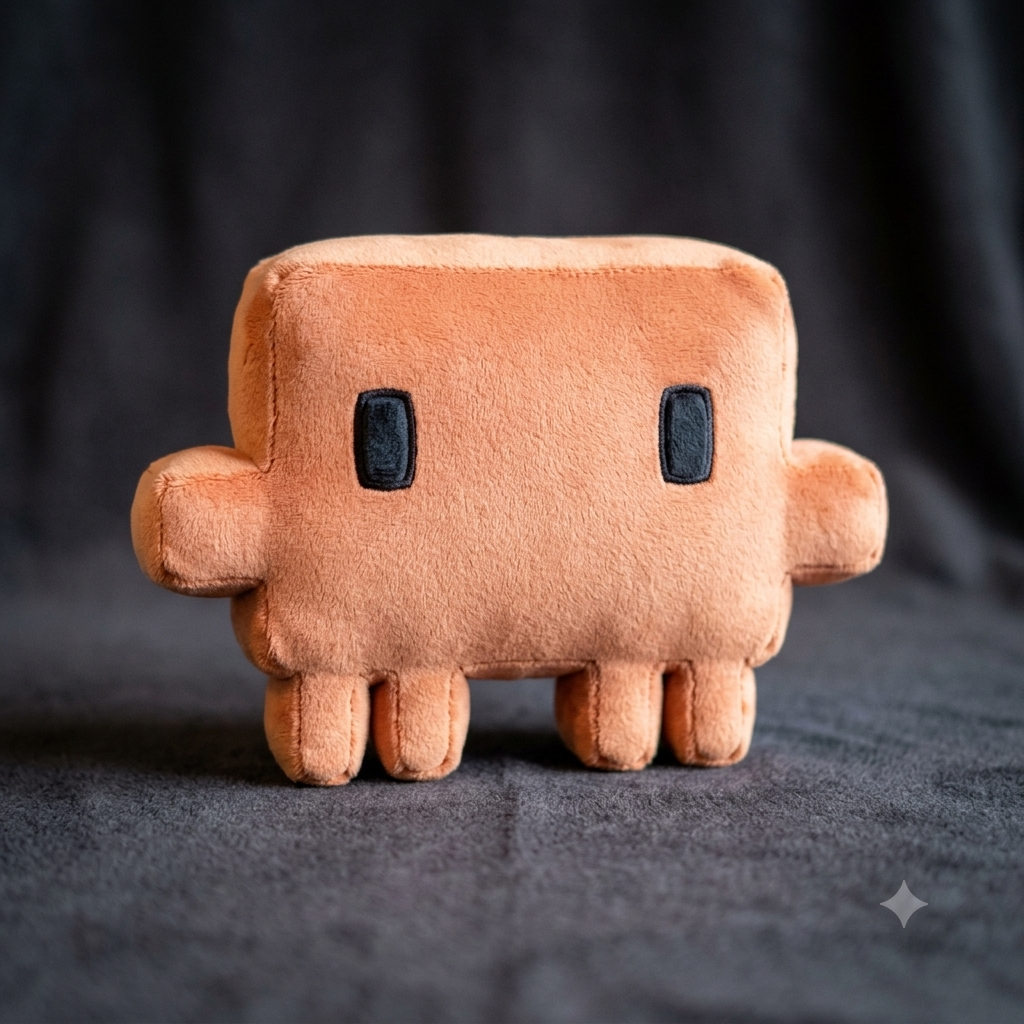
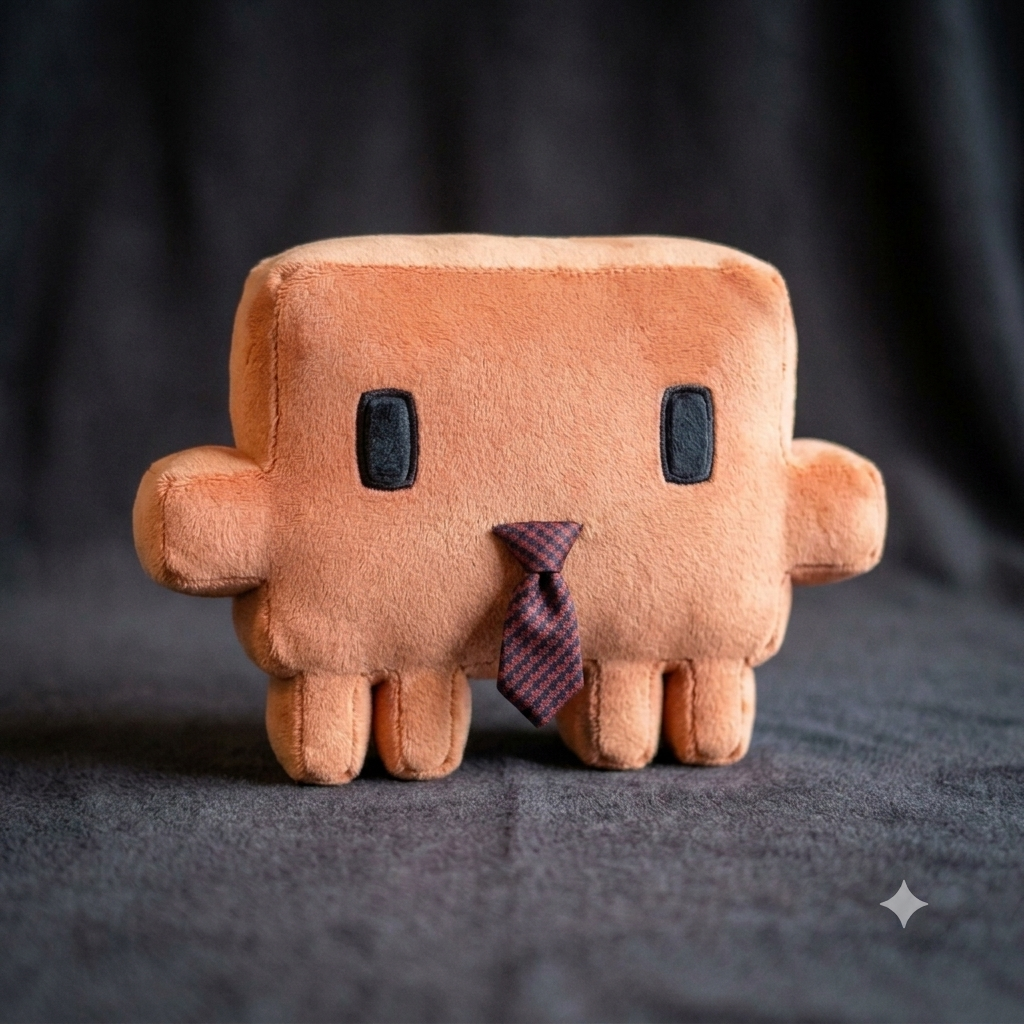
Public Pages - Volunteer Info | Minor UX changes for scroll and linking

diff --git a/client/src/pages/public/volunteer-info/VolunteerInfo.tsx b/client/src/pages/public/volunteer-info/VolunteerInfo.tsx
@@ -1,0 +1,71 @@
+import ButtonElement from "../../../components/ui/ButtonElement";
+import SectionContainer from "../../../components/ui/SectionContainer";
+import SectionHeadingCenter from "../../../components/ui/SectionHeadingCenter";
+import { volunteerContent } from "../../../static/content/volunteer-info";
+
+const VolunteerInfo = () => {
+  const { heroSection, stepsSection, joinSection } = volunteerContent;
+
+  return (
+    <div className="font-body">
+      {/* Section 1 */}
+      <SectionContainer className="bg-teal-light">
+        <SectionHeadingCenter>{heroSection.heading}</SectionHeadingCenter>
+        <div className="flex flex-col mx-5 lg:flex-row gap-8 justify-center items-center">
+          {/* Photo */}
+          <div className="w-40 sm:w-56 md:w-72 lg:w-1/3 flex justify-center items-center">
+            <img
+              src={heroSection.image}
+              className="w-full h-auto"
+              alt="Adopt a Pet"
+            />
+          </div>
+          {/* Text */}
+          <div className="w-full sm:px-10 sm:pb-10 lg:w-2/3 justify-center">
+            <blockquote className="mt-2 italic text-justify font-light">
+              {heroSection.description}
+            </blockquote>
+          </div>
+        </div>
+      </SectionContainer>
+
+      {/* Section 2 */}
+      <SectionContainer className="bg-gold-light">
+        <SectionHeadingCenter>{stepsSection.heading}</SectionHeadingCenter>
+        <div className="w-4/5 lg:w-3/5 mx-auto rounded-xl bg-gold-md p-6">
+          {stepsSection.steps.map((step) => (
+            <div className="mb-6" key={step.number}>
+              <div className="flex items-start space-x-4 bg-neutral-offwhite rounded-lg p-5 m-1 lg:m-3">
+                <span className="flex h-10 w-10 shrink-0 items-center justify-center rounded-full bg-green-500 font-bold text-white">
+                  {step.number}
+                </span>
+                <div>
+                  <span className="block mb-2 text-lg lg:text-xl font-bold text-black">
+                    {step.title}
+                  </span>
+                  <p className="text-sm text-gray-700">{step.description}</p>
+                </div>
+              </div>
+            </div>
+          ))}
+        </div>
+      </SectionContainer>
+
+      {/* Section 3 */}
+      <SectionContainer className="bg-rose">
+        <SectionHeadingCenter>{joinSection.heading}</SectionHeadingCenter>
+        <div className="text-center">
+          <p className="text-md font-light">{joinSection.description}</p>
+          <ButtonElement
+            to="/adopt"
+            className="bg-teal-dark hover:bg-gold-dark"
+          >
+            {joinSection.button}
+          </ButtonElement>
+        </div>
+      </SectionContainer>
+    </div>
+  );
+};
+
+export default VolunteerInfo;

diff --git a/client/src/static/content/volunteer-info.ts b/client/src/static/content/volunteer-info.ts
@@ -1,0 +1,51 @@
+import volunteerInfoImg from "../assets/images/volunteerInfo/volunteerInfo.png";
+
+export interface VolunteerSteps {
+  number: string;
+  title: string;
+  description: string;
+}
+
+export interface VolunteerInfoContent {
+  heroSection: { heading: string; description: string; image: string };
+  stepsSection: { heading: string; steps: VolunteerSteps[] };
+  joinSection: { heading: string; description: string; button: string };
+}
+
+export const volunteerContent: VolunteerInfoContent = {
+  heroSection: {
+    heading: "Become a Volunteer at PetPals ✨🐶",
+    description:
+      "Volunteering at PetPals is an enriching experience that allows you to make a real difference in the lives of our animals. Whether you’re helping shy cats find their confidence 🥹, walking energetic dogs, or assisting with shelter operations, every moment you spend makes a positive impact 💖. Join our community of compassionate individuals and be a part of something special!",
+    image: volunteerInfoImg,
+  },
+  stepsSection: {
+    heading: "How to Get Started? 📋",
+    steps: [
+      {
+        number: "1",
+        title: "Sign up 🧑🏻",
+        description:
+          "Create an account on our portal and provide basic details about yourself, and your availability. You don't need to have prior experience with pets, we will guide you!",
+      },
+      {
+        number: "2",
+        title: "Get Approved ✅",
+        description:
+          "Once our staff approves your application, visit your assigned shelter to receive onboarding material.",
+      },
+      {
+        number: "1",
+        title: "Start Volunteering 🐕",
+        description:
+          "You can contribute to various daily and weekly tasks, assigned based on your expertise by our staff and your availability. You can also be part of organizing shelter events!",
+      },
+    ],
+  },
+  joinSection: {
+    heading: "Sign Up to Volunteer",
+    description:
+      "Join our community of volunteers and make a difference in the lives of animals. 💫 Signing up is quick and easy!",
+    button: "Sign Up",
+  },
+};

diff --git a/client/src/pages/public/about/About.tsx b/client/src/pages/public/about/About.tsx
@@ -1,9 +1,9 @@
 import { useEffect, useRef, useState } from "react";
-import { Link } from "react-router-dom";
 import CountUp from "react-countup";
 import SectionContainer from "../../../components/ui/SectionContainer";
 import SectionHeading from "../../../components/ui/SectionHeading";
 import SectionHeadingCenter from "../../../components/ui/SectionHeadingCenter";
+import ButtonElement from "../../../components/ui/ButtonElement";
 import { aboutContent } from "../../../static/content/about";
 
 const About = () => {
@@ -38,12 +38,12 @@ const About = () => {
         <SectionHeadingCenter>{believeSection.heading}</SectionHeadingCenter>
         <div className="text-center">
           <p className="text-md font-light">{believeSection.description}</p>
-          <Link
+          <ButtonElement
             to="/adopt"
-            className="my-5 inline-block rounded-md bg-teal-dark px-6 py-2 text-white transition hover:bg-teal-dark"
+            className="bg-teal-dark hover:bg-gold-dark"
           >
             {believeSection.button}
-          </Link>
+          </ButtonElement>
         </div>
       </SectionContainer>
 
@@ -181,16 +181,18 @@ const About = () => {
         <div className="text-center">
           <p className="mt-4">{joinMissionSection.description}</p>
           <div className="flex items-center justify-center gap-2">
-            <Link to="/adopt">
-              <button className="mt-6 px-6 py-2 bg-rose-dark text-white rounded-md w-40 hover:bg-gold-dark transition">
-                {joinMissionSection.button1}
-              </button>
-            </Link>
-            <Link to="/volunteerInfo">
-              <button className="mt-6 px-6 py-2 bg-teal-dark text-white rounded-md w-40 hover:bg-gold-dark transition">
-                {joinMissionSection.button2}
-              </button>
-            </Link>
+            <ButtonElement
+              to="/adopt"
+              className="bg-rose-dark hover:bg-gold-dark"
+            >
+              {joinMissionSection.button1}
+            </ButtonElement>
+            <ButtonElement
+              to="/volunteerinfo"
+              className="bg-teal-dark hover:bg-gold-dark"
+            >
+              {joinMissionSection.button2}
+            </ButtonElement>
           </div>
         </div>
       </SectionContainer>

diff --git a/client/src/pages/public/adopt/Adopt.tsx b/client/src/pages/public/adopt/Adopt.tsx
@@ -1,14 +1,17 @@
-import { Link } from "react-router-dom";
 import { adoptContent } from "../../../static/content/adopt";
 import adoptImage from "../../../static/assets/images/adopt/adopt.png";
 import PetCatalog from "./sections/PetCatalog";
 import SectionContainer from "../../../components/ui/SectionContainer";
 import SectionHeading from "../../../components/ui/SectionHeading";
 import SectionHeadingCenter from "../../../components/ui/SectionHeadingCenter";
+import ButtonElement from "../../../components/ui/ButtonElement";
+import { useScrollToHash } from "../../../logic/hooks/useScrollToHash";
 
 const { hero, signupCta, steps } = adoptContent;
 
 const Adopt = () => {
+  useScrollToHash();
+
   return (
     <div className="font-body">
       {/* Hero */}
@@ -18,13 +21,12 @@ const Adopt = () => {
           <div className="flex flex-col justify-center">
             <SectionHeading>{hero.heading}</SectionHeading>
             <p className="text-justify font-light">{hero.body}</p>
-
-            <a
-              href="#pets"
-              className="mt-6 inline-block rounded-md bg-teal-dark px-6 py-2 text-white transition hover:bg-gold-md hover:text-black w-fit"
+            <ButtonElement
+              to="/adopt#catalog"
+              className="self-start bg-teal-dark hover:bg-gold-dark"
             >
               {hero.button}
-            </a>
+            </ButtonElement>
           </div>
 
           <div className="flex items-center justify-center text-center md:p-5">
@@ -70,17 +72,19 @@ const Adopt = () => {
         <SectionHeadingCenter>{signupCta.heading}</SectionHeadingCenter>
         <div className="text-center">
           <p className="text-md font-light">{signupCta.body}</p>
-          <Link
-            to="/login"
-            className="my-3 inline-block rounded-md bg-gold-md px-6 py-2 font-bold text-white transition hover:bg-teal-dark"
+          <ButtonElement
+            to="/register"
+            className="bg-teal-dark hover:bg-gold-dark"
           >
-            Sign Up
-          </Link>
+            {signupCta.button}
+          </ButtonElement>
         </div>
       </SectionContainer>
 
       {/* Search + Catalog */}
-      <PetCatalog />
+      <div id="catalog">
+        <PetCatalog />
+      </div>
     </div>
   );
 };

diff --git a/client/src/components/ui/ButtonElement.tsx b/client/src/components/ui/ButtonElement.tsx
@@ -1,0 +1,19 @@
+// components/ui/ButtonElement.tsx
+import { Link } from "react-router-dom";
+
+interface ButtonElementProps {
+  to: string;
+  children: React.ReactNode;
+  className?: string;
+}
+
+const ButtonElement = ({ to, children, className = "" }: ButtonElementProps) => (
+  <Link
+    to={to}
+    className={`my-5 inline-block rounded-md px-6 py-2 text-white transition ${className}`}
+  >
+    {children}
+  </Link>
+);
+
+export default ButtonElement;

diff --git a/client/src/logic/hooks/useScrollToTop.ts b/client/src/logic/hooks/useScrollToTop.ts
@@ -1,0 +1,19 @@
+import { useEffect } from "react";
+import { useLocation } from "react-router-dom";
+
+// BrowserRouter navigations don't reload the page, so the browser never
+// resets scroll position on its own — without this, a new route renders
+// wherever the previous page happened to be scrolled to.
+export const useScrollToTop = () => {
+  const { pathname, hash } = useLocation();
+
+  useEffect(() => {
+    // A hash means this navigation is deep-linking to a section — that's
+    // useScrollToHash's job, not this hook's, so don't fight it.
+    if (hash) return;
+    window.scrollTo(0, 0);
+    // Intentionally keyed on pathname only, not hash — a hash-only change
+    // (e.g. clicking an in-page anchor) shouldn't reset scroll to top.
+    // eslint-disable-next-line react-hooks/exhaustive-deps
+  }, [pathname]);
+};

diff --git a/client/src/logic/hooks/useScrollToHash.ts b/client/src/logic/hooks/useScrollToHash.ts
@@ -1,0 +1,16 @@
+import { useEffect } from "react";
+import { useLocation } from "react-router-dom";
+
+// React Router's <Link> intercepts the click and navigates client-side — it
+// never triggers the browser's native scroll-to-#id behavior, so a hash link
+// to a section on the target page needs to be handled manually.
+export const useScrollToHash = () => {
+  const location = useLocation();
+
+  useEffect(() => {
+    if (!location.hash) return;
+    document
+      .getElementById(location.hash.slice(1))
+      ?.scrollIntoView({ behavior: "smooth" });
+  }, [location.hash]);
+};

diff --git a/client/src/App.tsx b/client/src/App.tsx
@@ -5,6 +5,7 @@ import ProtectedRoute from "./logic/route/ProtectedRoute";
 import RoleRoute from "./logic/route/RoleRoute";
 import Home from "./pages/public/home/Home";
 import About from "./pages/public/about/About";
+import VolunteerInfo from "./pages/public/volunteer-info/VolunteerInfo";
 import Login from "./pages/public/auth/Login";
 import Register from "./pages/public/auth/Register";
 import Adopt from "./pages/public/adopt/Adopt";
@@ -18,11 +19,14 @@ import DonorDashboard from "./pages/protected/donor/DonorDashboard";
 import AdminDashboard from "./pages/protected/admin/AdminDashboard";
 import { refreshToken } from "./logic/api/authApi";
 import useAuthStore from "./logic/store/useAuthStore";
+import { useScrollToTop } from "./logic/hooks/useScrollToTop";
 
 // What it does: The root component. Defines all the routes — which URL path renders which page component.
 const App = () => {
   const login = useAuthStore((state) => state.login); // Pulls the login action out of your Zustand store so you can call it in this component
   const [authReady, setAuthReady] = useState(false); //Since the navbar will display user details only if logged in, to improve the UX, we load the UI only after receiving the user details response
+
+  useScrollToTop();
 
   useEffect(() => {
     refreshToken() // Calls authApi.ts function which hits POST /api/v1/auth/refresh-token with
@@ -42,6 +46,7 @@ const App = () => {
       <Route element={<PublicLayout />}>
         <Route path="/" element={<Home />} />
         <Route path="/about" element={<About />} />
+        <Route path="/volunteerinfo" element={<VolunteerInfo />} />
         <Route path="/login" element={<Login />} />
         <Route path="/register" element={<Register />} />
         <Route path="/adopt" element={<Adopt />} />

diff --git a/client/src/static/content/adopt.ts b/client/src/static/content/adopt.ts
@@ -6,7 +6,7 @@ export interface AdoptStep {
 
 export interface AdoptContent {
   hero: { heading: string; body: string; button: string };
-  signupCta: { heading: string; body: string };
+  signupCta: { heading: string; body: string; button: string };
   steps: { heading: string; body: AdoptStep[] };
 }
 
@@ -19,6 +19,7 @@ export const adoptContent: AdoptContent = {
   signupCta: {
     heading: "Sign Up to Adopt",
     body: "Ready to bring a pet into your life? 🥰🌟 Create an account to start your adoption journey today!",
+    button: "Sign Up",
   },
   steps: {
     heading: "How to Adopt? 🐹",

diff --git a/client/src/pages/public/auth/Login.tsx b/client/src/pages/public/auth/Login.tsx
@@ -68,7 +68,7 @@ const Login = () => {
 
   return (
     <div
-      className="min-h-screen bg-cover bg-center flex items-center justify-center px-4 py-2"
+      className="min-h-screen bg-cover bg-center bg-fixed flex items-center justify-center px-4 py-2"
       style={{ backgroundImage: `url(${backgroundImg})` }}
     >
       <Card className="w-full max-w-md p-12">

diff --git a/client/src/pages/public/auth/Register.tsx b/client/src/pages/public/auth/Register.tsx
@@ -149,7 +149,7 @@ const Register = () => {
 
   return (
     <div
-      className="min-h-screen bg-cover bg-center flex items-center justify-center px-4 py-10"
+      className="min-h-screen bg-cover bg-center bg-fixed flex items-center justify-center px-4 py-10"
       style={{ backgroundImage: `url(${backgroundImg})` }}
     >
       <Card className="w-full max-w-lg p-10">

diff --git a/client/src/static/content/about.ts b/client/src/static/content/about.ts
@@ -75,7 +75,7 @@ export const aboutContent: AboutContent = {
         image: team1,
       },
       {
-        name: "Claude A",
+        name: "Claude Code",
         description: "Development Assistant",
         image: team2,
       },